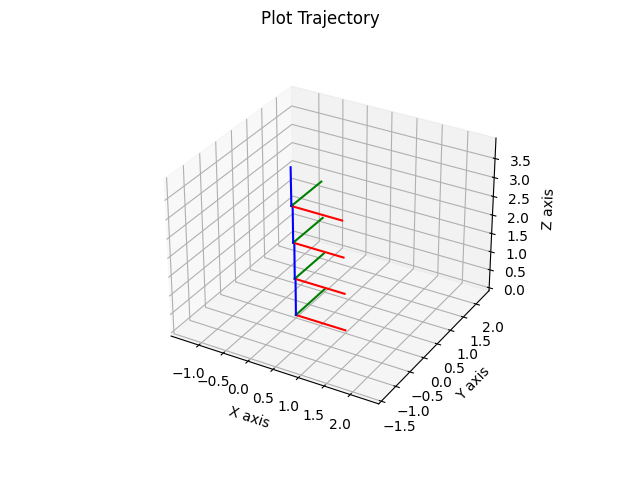
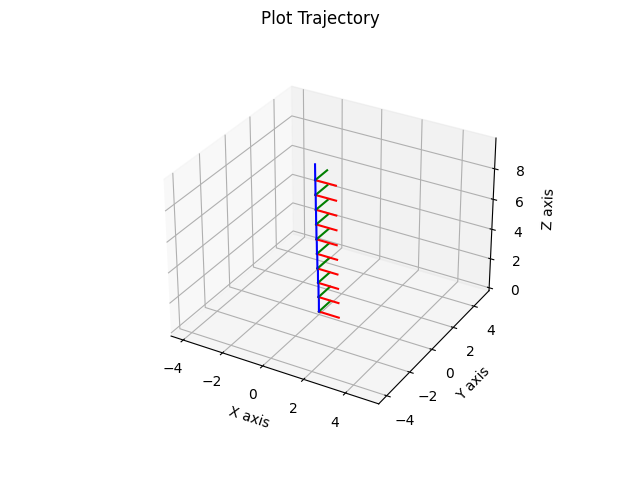
pushing after getng 5.2 trajectory plot

diff --git a/ex5.py b/ex5.py
@@ -247,7 +247,7 @@ if __name__ == '__main__':
     # triangulate_from_last_frame_and_project_to_all_frames(db, track)
 
     # 5.2
-    graph, initial_estimate = adjust_bundle(db, 0, 4, [])
+    graph, initial_estimate = adjust_bundle(db, 0, 10, [])
     # factor_error_before_optimization = graph.error(initial_estimate)
     plot_trajectory(fignum=0, values=initial_estimate)
     set_axes_equal(0)
